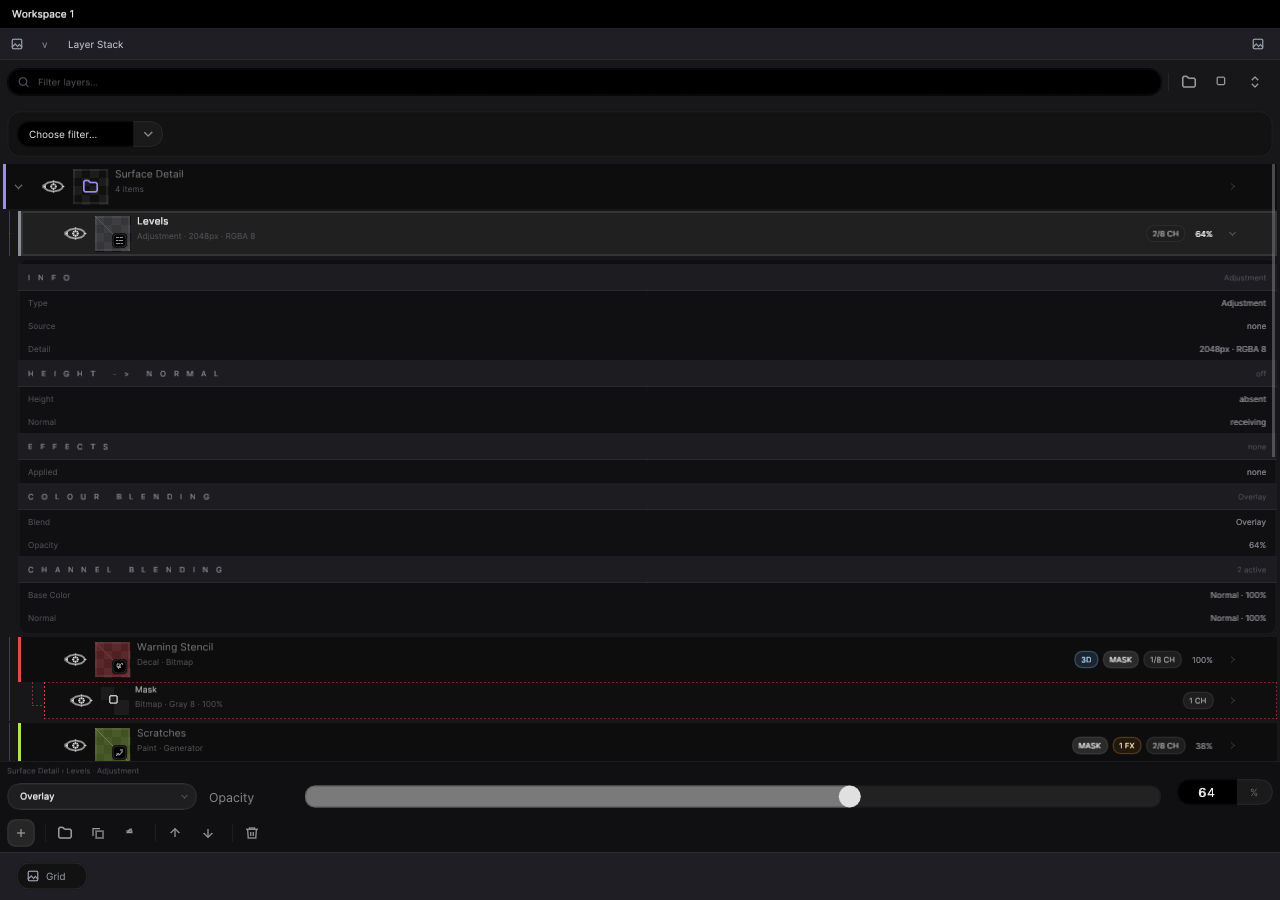
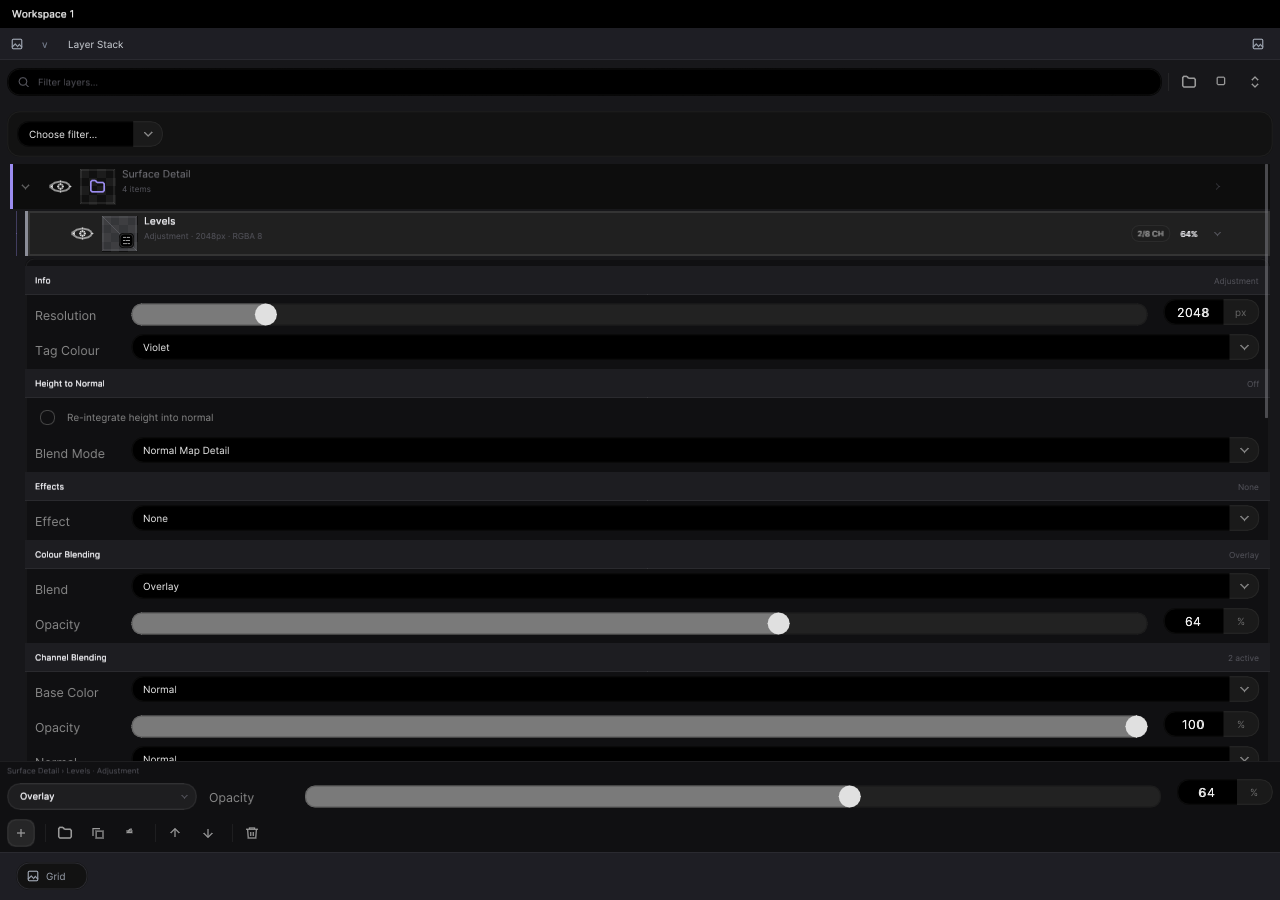
Refine inline layer cards with editable fields

diff --git a/Engine/SlateUI/Interface/TexturePaintPanel/Source/TexturePaintPanel.cpp b/Engine/SlateUI/Interface/TexturePaintPanel/Source/TexturePaintPanel.cpp
@@ -458,6 +458,19 @@ void SeedPaintContextFromRows(TexturePaintContext& Applied,
         Applied.MaskVisible[Ordinal]    = true;
         Applied.LayerTagHue[Ordinal]    = Row.TagHue;
         Applied.LayerExpanded[Ordinal]  = Row.Expanded;
+        Applied.LayerCardExpanded[Ordinal] = false;
+        Applied.LayerResolution[Ordinal] = 2048.0;
+        Applied.LayerHeightIntegrated[Ordinal] = false;
+        Applied.LayerHeightBlendTaken[Ordinal] = 0u;
+        Applied.LayerEffectTaken[Ordinal] = (Row.Effects != nullptr && Row.Effects[0] != '\0') ? 1u : 0u;
+
+        if (Stands && Row.Detail != nullptr)
+        {
+            double Parsed = 0.0;
+            if (std::sscanf(Row.Detail, "%lf", &Parsed) == 1 && Parsed >= 16.0)
+                Applied.LayerResolution[Ordinal] = Parsed;
+        }
+
         Applied.LayerPresent[Ordinal]   = true;
         Applied.ChannelTaken[Ordinal]   = 0u;
 
@@ -910,6 +923,15 @@ Outcome<bool> TexturePaintPanel::Construct(InteractionIndex& Interaction,
         Identity = Registered.Resolve();
     }
 
+    for (ControlIdentity& Identity : InlineControls)
+    {
+        const Outcome<ControlIdentity> Registered = Interaction.Register();
+        if (!Registered.Resolved)
+            return Outcome<bool>::Refuse(Registered.Error);
+
+        Identity = Registered.Resolve();
+    }
+
     for (std::uint32_t Ordinal = 0u; Ordinal < TextureLayerCeiling; ++Ordinal)
     {
         ControlIdentity* const Rows[] =
@@ -1068,6 +1090,7 @@ void TexturePaintPanel::Record(const PlaneExtent& Extent, TexturePaintContext& A
         RowCount = TextureLayerCeiling;
 
     RowTally = 0u;
+    InlineControlsSpent = 0u;
 
     // 📐 The carousel: a 200 %-wide strip, translated by one whole extent. Page 0 the stack, page 1
     //    the selection-driven properties — the same slide the shell's inspector uses.
@@ -1104,6 +1127,7 @@ void TexturePaintPanel::Record(const PlaneExtent& Extent, TexturePaintContext& A
         RecordPropertiesPage(Trailing, Applied, Rows, RowCount);
 
     Surface->Release();
+    SharedControls.RecordDeferred();
 }
 
 //------------------------------------------------------------------------------------------------------------------------
@@ -1300,8 +1324,8 @@ void TexturePaintPanel::RecordStackPage(const PlaneExtent& Extent, TexturePaintC
     RecordStackFooter(Footer, Applied, Rows, RowCount);
 
     // ⑥ The rows band.
-    const PlaneExtent Body = Spanning(Extent.MinimumX + 3.0f, FacetCard.MaximumY + Pad,
-                                      Extent.Width() - 6.0f,
+    const PlaneExtent Body = Spanning(Extent.MinimumX + 10.0f, FacetCard.MaximumY + Pad,
+                                      Extent.Width() - 20.0f,
                                       Strip.MinimumY - FacetCard.MaximumY - Pad);
 
     if (Body.MaximumY > Body.MinimumY)
@@ -1664,7 +1688,7 @@ void TexturePaintPanel::RecordStackRow(const PlaneExtent& Row, TexturePaintConte
                                        ThumbExtent, ThumbExtent);
 
     const float MetaLead = Thumb.MaximumX + Scaled.PanePad;
-    const float RightGrip = Row.MaximumX - 6.0f;
+    const float RightGrip = Row.MaximumX - 14.0f;
 
     const PlaneExtent More = Spanning(RightGrip - EyeExtent,
                                       Row.MinimumY + (Scaled.LayerRowY - EyeExtent) * 0.5f,
@@ -1705,7 +1729,13 @@ void TexturePaintPanel::RecordStackRow(const PlaneExtent& Row, TexturePaintConte
     {
         Applied.LayerTaken = Ordinal;
         Applied.MaskTaken = false;
-        Applied.LayerCardExpanded[Ordinal] = !Applied.LayerCardExpanded[Ordinal];
+        const bool Incoming = !Applied.LayerCardExpanded[Ordinal];
+
+        if (Incoming)
+            for (std::uint32_t Other = 0u; Other < TextureLayerCeiling; ++Other)
+                Applied.LayerCardExpanded[Other] = false;
+
+        Applied.LayerCardExpanded[Ordinal] = Incoming;
     }
 
     // 📐 A double contact on the row is the pointer equivalent of Tab: it selects the layer and sends
@@ -2018,17 +2048,22 @@ void TexturePaintPanel::RecordStackRow(const PlaneExtent& Row, TexturePaintConte
                     Faded(Faded(Tinted.Faint, CellCoverage), RowCoverage));
 }
 
+ControlIdentity TexturePaintPanel::NextInlineControl()
+{
+    return (InlineControlsSpent < 40u) ? InlineControls[InlineControlsSpent++] : ControlIdentity{};
+}
+
 float TexturePaintPanel::RecordInlineLayerCard(const PlaneExtent& Extent,
                                                 TexturePaintContext& Applied,
                                                 const TextureLayerRow& Current,
                                                 std::uint32_t Ordinal, bool Recording)
 {
     const float Pad = Scaled.PanePad;
-    const float HeadY = 27.0f;
-    const float RowY = 23.0f;
+    const float HeadY = 29.0f;
+    const float FieldY = Scaled.ComponentY;
     const float Left = Extent.MinimumX + Pad * 1.5f;
     const float Right = Extent.MaximumX - Pad * 1.5f;
-    float Sweep = Extent.MinimumY + 6.0f;
+    float Sweep = Extent.MinimumY + 8.0f;
 
     if (Recording)
     {
@@ -2044,64 +2079,100 @@ float TexturePaintPanel::RecordInlineLayerCard(const PlaneExtent& Extent,
             Surface->Ground(Head, Tinted.Tile, 0.0f, CornerNone);
             Surface->Ground(Spanning(Head.MinimumX, Head.MaximumY - 1.0f, Head.Width(), 1.0f),
                             Tinted.Hairline, 0.0f, CornerNone);
-            Surface->TextRunCapitalised(Left, Sweep + (HeadY - Scaled.RunFiner) * 0.5f,
-                                        Tinted.Muted, Caption, Scaled.RunFiner, 0.8f, true);
+            Surface->TextRun(Left, Sweep + (HeadY - Scaled.RunSmall) * 0.5f,
+                             Tinted.Primary, Caption, Scaled.RunSmall, 0.0f, true);
 
             if (Summary != nullptr && Summary[0] != '\0')
             {
-                const float Wide = Surface->MeasureRun(Summary, Scaled.RunFiner, 0.0f);
-                Surface->TextRun(Right - Wide, Sweep + (HeadY - Scaled.RunFiner) * 0.5f,
-                                 Tinted.Faint, Summary, Scaled.RunFiner);
+                const float Wide = Surface->MeasureRun(Summary, Scaled.RunFine, 0.0f);
+                Surface->TextRun(Right - Wide, Sweep + (HeadY - Scaled.RunFine) * 0.5f,
+                                 Tinted.Faint, Summary, Scaled.RunFine);
             }
         }
 
-        Sweep += HeadY;
+        Sweep += HeadY + 4.0f;
     };
 
-    const auto Reading = [&](const char* Caption, const char* Value)
+    const auto Field = [&]()
     {
-        if (Recording)
-        {
-            Surface->TextRun(Left, Sweep + (RowY - Scaled.RunFine) * 0.5f,
-                             Tinted.Faint, Caption, Scaled.RunFine);
-            const char* Written = (Value != nullptr && Value[0] != '\0') ? Value : "none";
-            const float Wide = Surface->MeasureRun(Written, Scaled.RunFine, 0.0f);
-            Surface->TextRun(Right - Wide, Sweep + (RowY - Scaled.RunFine) * 0.5f,
-                             Tinted.Muted, Written, Scaled.RunFine, 0.0f, true);
-        }
-
-        Sweep += RowY;
+        const PlaneExtent Row = Spanning(Left, Sweep, Right - Left, FieldY);
+        Sweep += FieldY + 4.0f;
+        return Row;
     };
+
+    static const char* const TagNames[] = { "Violet", "Orange", "Green", "Blue", "Rose" };
+    static constexpr std::uint32_t TagHues[] =
+    {
+        0x9B8CF0u, 0xF97316u, 0x84CC16u, 0x38BDF8u, 0xFB7185u
+    };
+    static const char* const HeightModes[] = { "Normal Map Detail", "Replace", "Add", "Overlay" };
+    static const char* const Effects[] = { "None", "Levels", "Blur", "Sharpen", "Edge Wear" };
 
     Section("Info", TextureLayerText(Current.Classified));
-    Reading("Type", TextureLayerText(Current.Classified));
-    Reading("Source", Current.Source);
-    Reading("Detail", Current.Detail);
 
-    bool HeightOn = false;
-    bool NormalOn = false;
-    for (std::uint32_t Channel = 0u; Channel < Current.ChannelCount; ++Channel)
+    const PlaneExtent ResolutionRow = Field();
+    if (Recording)
+        SharedControls.MagnitudeRow(
+            NextInlineControl(), ResolutionRow,
+            MagnitudeDeclaration{ "Resolution", "px", 16.0, 16384.0, 0u,
+                                  MagnitudeDeclaration::Arrange::Measured },
+            Applied.LayerResolution[Ordinal]);
+
+    std::uint32_t TagTaken = 0u;
+    for (std::uint32_t Tag = 0u; Tag < 5u; ++Tag)
+        if (Applied.LayerTagHue[Ordinal] == TagHues[Tag])
+            TagTaken = Tag;
+
+    const PlaneExtent TagRow = Field();
+    if (Recording && SharedControls.SelectionField(NextInlineControl(), TagRow,
+                                                   SelectionDeclaration{ "Tag Colour", TagNames, 5u },
+                                                   TagTaken).ReadingAltered)
     {
-        const char* Naming = Current.Channels[Channel];
-        if (Naming == nullptr)
-            continue;
-        HeightOn = HeightOn || std::strcmp(Naming, "Height") == 0;
-        NormalOn = NormalOn || std::strcmp(Naming, "Normal") == 0;
+        Applied.LayerTagHue[Ordinal] = TagHues[TagTaken];
     }
 
-    Section("Height -> Normal", (HeightOn && NormalOn) ? "integrated" : "off");
-    Reading("Height", HeightOn ? "enabled" : "absent");
-    Reading("Normal", NormalOn ? "receiving" : "absent");
+    Section("Height to Normal", Applied.LayerHeightIntegrated[Ordinal] ? "Enabled" : "Off");
 
-    Section("Effects", (Current.Effects != nullptr && Current.Effects[0] != '\0')
-                       ? Current.Effects : "none");
-    Reading("Applied", Current.Effects);
+    const PlaneExtent HeightToggle = Field();
+    if (Recording)
+        SharedControls.ToggleRow(NextInlineControl(), HeightToggle,
+                                 ToggleDeclaration{ "Re-integrate height into normal" },
+                                 Applied.LayerHeightIntegrated[Ordinal]);
 
-    char Opacity[16] = {};
-    std::snprintf(Opacity, sizeof Opacity, "%u%%", Applied.LayerOpacity[Ordinal]);
-    Section("Colour Blending", Current.Blend);
-    Reading("Blend", TextureBlendNames[Applied.LayerBlendTaken[Ordinal] % TextureBlendCount]);
-    Reading("Opacity", Opacity);
+    const PlaneExtent HeightMode = Field();
+    if (Recording)
+    {
+        SharedControls.SelectionField(NextInlineControl(), HeightMode,
+                                      SelectionDeclaration{ "Blend Mode", HeightModes, 4u },
+                                      Applied.LayerHeightBlendTaken[Ordinal]);
+    }
+
+    Section("Effects", Effects[Applied.LayerEffectTaken[Ordinal] % 5u]);
+    const PlaneExtent EffectRow = Field();
+    if (Recording)
+        SharedControls.SelectionField(NextInlineControl(), EffectRow,
+                                      SelectionDeclaration{ "Effect", Effects, 5u },
+                                      Applied.LayerEffectTaken[Ordinal]);
+
+    Section("Colour Blending",
+            TextureBlendNames[Applied.LayerBlendTaken[Ordinal] % TextureBlendCount]);
+    const PlaneExtent BlendRow = Field();
+    if (Recording)
+        SharedControls.SelectionField(NextInlineControl(), BlendRow,
+                                      SelectionDeclaration{ "Blend", TextureBlendNames,
+                                                            TextureBlendCount },
+                                      Applied.LayerBlendTaken[Ordinal]);
+
+    double Opacity = static_cast<double>(Applied.LayerOpacity[Ordinal]);
+    const PlaneExtent OpacityField = Field();
+    if (Recording && SharedControls.MagnitudeRow(
+                             NextInlineControl(), OpacityField,
+                             MagnitudeDeclaration{ "Opacity", "%", 0.0, 100.0, 0u,
+                                                   MagnitudeDeclaration::Arrange::Measured },
+                             Opacity).ReadingAltered)
+    {
+        Applied.LayerOpacity[Ordinal] = static_cast<std::uint32_t>(Opacity + 0.5);
+    }
 
     char Active[20] = {};
     std::snprintf(Active, sizeof Active, "%u active", Current.ChannelCount);
@@ -2111,11 +2182,25 @@ float TexturePaintPanel::RecordInlineLayerCard(const PlaneExtent& Extent,
                                      ? Current.ChannelCount : TextureChannelCeiling;
     for (std::uint32_t Channel = 0u; Channel < ChannelCount; ++Channel)
     {
-        char Value[48] = {};
-        std::snprintf(Value, sizeof Value, "%s · %u%%",
-                      TextureBlendNames[Applied.ChannelBlendTaken[Ordinal][Channel] % TextureBlendCount],
-                      Applied.ChannelAmount[Ordinal][Channel]);
-        Reading(Current.Channels[Channel], Value);
+        const char* Caption = (Current.Channels[Channel] != nullptr)
+                            ? Current.Channels[Channel] : TextureChannelText(Channel);
+        const PlaneExtent ChannelBlend = Field();
+        if (Recording)
+            SharedControls.SelectionField(NextInlineControl(), ChannelBlend,
+                                          SelectionDeclaration{ Caption, TextureBlendNames,
+                                                                TextureBlendCount },
+                                          Applied.ChannelBlendTaken[Ordinal][Channel]);
+
+        double Amount = static_cast<double>(Applied.ChannelAmount[Ordinal][Channel]);
+        const PlaneExtent ChannelAmount = Field();
+        if (Recording && SharedControls.MagnitudeRow(
+                                 NextInlineControl(), ChannelAmount,
+                                 MagnitudeDeclaration{ "Opacity", "%", 0.0, 100.0, 0u,
+                                                       MagnitudeDeclaration::Arrange::Measured },
+                                 Amount).ReadingAltered)
+        {
+            Applied.ChannelAmount[Ordinal][Channel] = static_cast<std::uint32_t>(Amount + 0.5);
+        }
     }
 
     Sweep += 6.0f;

diff --git a/Engine/SlateUI/Interface/TexturePaintPanel/Api/TexturePaintPanel.h b/Engine/SlateUI/Interface/TexturePaintPanel/Api/TexturePaintPanel.h
@@ -110,6 +110,10 @@ struct TexturePaintContext
     //    channel each layer is showing on the properties page.
     bool                       LayerExpanded[TextureLayerCeiling]  = {};
     bool                       LayerCardExpanded[TextureLayerCeiling] = {}; // [-] - inline detail card beneath row
+    double                     LayerResolution[TextureLayerCeiling] = {};   // [px] - editable inline Info field
+    bool                       LayerHeightIntegrated[TextureLayerCeiling] = {}; // [-] - Height → Normal toggle
+    std::uint32_t              LayerHeightBlendTaken[TextureLayerCeiling] = {}; // [-] - height blend roster
+    std::uint32_t              LayerEffectTaken[TextureLayerCeiling] = {}; // [-] - compact effect roster
     bool                       LayerPresent[TextureLayerCeiling]   = {};
     std::uint32_t              ChannelTaken[TextureLayerCeiling]   = {};
     bool                       ChannelFolded[TextureChannelCeiling] = {};
@@ -237,6 +241,7 @@ public:
         + 8u                                // [-] - the decal card's projection and transform
         + 3u                                // [-] - the folder card's blend, opacity and isolate
         + 4u                                // [-] - the settings card's rows
+        + 40u                               // [-] - one disclosed inline layer card's editable fields
         + 44u;                              // [-] - the four menu anchors plus menu items: add 7,
                                             //       layer 7, swatches 10, mask 3, blend 13
 
@@ -312,6 +317,7 @@ private:
     float RecordInlineLayerCard(const PlaneExtent& Extent, TexturePaintContext& Applied,
                                 const TextureLayerRow& Current, std::uint32_t Ordinal,
                                 bool Recording);
+    ControlIdentity NextInlineControl();
     void RecordMaskRow(const PlaneExtent& Row, TexturePaintContext& Applied,
                        const TextureLayerRow* Rows, std::uint32_t RowCount,
                        const TextureLayerRow& Current, std::uint32_t Ordinal);
@@ -444,6 +450,8 @@ private:
     ControlIdentity LayerEyes[TextureLayerCeiling]       = {};
     ControlIdentity LayerDetails[TextureLayerCeiling]    = {};
     ControlIdentity LayerMores[TextureLayerCeiling]      = {};
+    ControlIdentity InlineControls[40]                   = {};
+    std::uint32_t   InlineControlsSpent                  = 0u;
     ControlIdentity MaskContacts[TextureLayerCeiling]    = {};
     ControlIdentity MaskEyes[TextureLayerCeiling]        = {};
     ControlIdentity MaskDetails[TextureLayerCeiling]     = {};

diff --git a/Tools/SceneDirectoryProof/SceneDirectoryProof.cpp b/Tools/SceneDirectoryProof/SceneDirectoryProof.cpp
@@ -1548,7 +1548,7 @@ bool RunShot(SceneDriver& Driver, const char* OutputPath, const char* Scenario,
                                                      * Profile.ControlMeasure.ArtistFactor);
         const PlaneExtent Row = Driver.TexturePaint.RowExtent(1u);
         const float Action = Metric.LayerToolHeight - 5.0f;
-        const float DisclosureX = Row.MaximumX - 6.0f - Action * 1.5f - 4.0f;
+        const float DisclosureX = Row.MaximumX - 14.0f - Action * 1.5f - 4.0f;
         const float DisclosureY = Row.MinimumY + Metric.LayerRowY * 0.5f;
 
         Driver.Tap(DisclosureX, DisclosureY);
@@ -1586,7 +1586,7 @@ bool RunShot(SceneDriver& Driver, const char* OutputPath, const char* Scenario,
         Driver.Settle(20);
 
         const PlaneExtent Returned = Driver.TexturePaint.RowExtent(1u);
-        const float ReturnedX = Returned.MaximumX - 6.0f - Action * 1.5f - 4.0f;
+        const float ReturnedX = Returned.MaximumX - 14.0f - Action * 1.5f - 4.0f;
         const float ReturnedY = Returned.MinimumY + Metric.LayerRowY * 0.5f;
         Driver.Tap(ReturnedX, ReturnedY);
         Driver.Settle(28);

diff --git a/VisualProof/LayerStackInlineCard/README.md b/VisualProof/LayerStackInlineCard/README.md
@@ -2,7 +2,7 @@
 
 These 1280 × 900 PNGs are rasters of the real editor workspace and the real `TexturePaintPanel` / `SceneDirectoryPanel`. The proof harness records through `RecordingSurface` and CPU-rasterizes the resulting ImGui draw list; these are not mock-ups.
 
-- [`editor-layerstack-card.png`](editor-layerstack-card.png) — the **Levels** entry's trailing V opened its card beneath the row. The card is intentionally limited to Info, Height → Normal, Effects, Colour Blending, and Channel Blending.
+- [`editor-layerstack-card.png`](editor-layerstack-card.png) — the **Levels** entry's trailing V opened its card beneath the row. The clean title-case sections are limited to Info, Height to Normal, Effects, Colour Blending, and Channel Blending. Their resolution, tag colour, toggle, blend, effect, and opacity controls are the real reusable editable fields.
 - [`editor-overview.png`](editor-overview.png) — the Directory destination with its footer spanning the complete Directory page, including beneath the details side.
 
 The layer-card scenario drives the actual interactions and asserts both paths remain independent:
@@ -18,6 +18,6 @@ The layer-card scenario drives the actual interactions and asserts both paths re
 SHA-256:
 
 ```text
-c44fe42d49819c469297824306fbe3bcd8cd0a67492ce537309c7b948766edd5  editor-layerstack-card.png
+1275f8454509a12f4ee710f574c734b287adba8ab5848c75a1fb76d705bb4957  editor-layerstack-card.png
 7eb404fceb383f7d329c36fbe27d14751fc61193f67b213dc2db138dccb5f9ce  editor-overview.png
 ```
